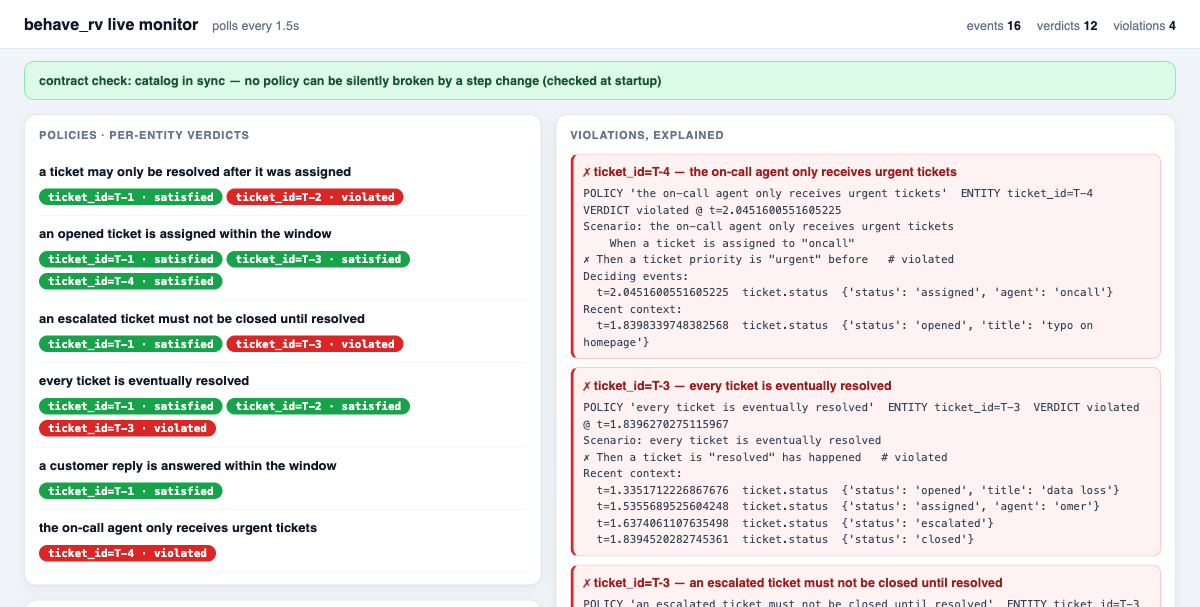
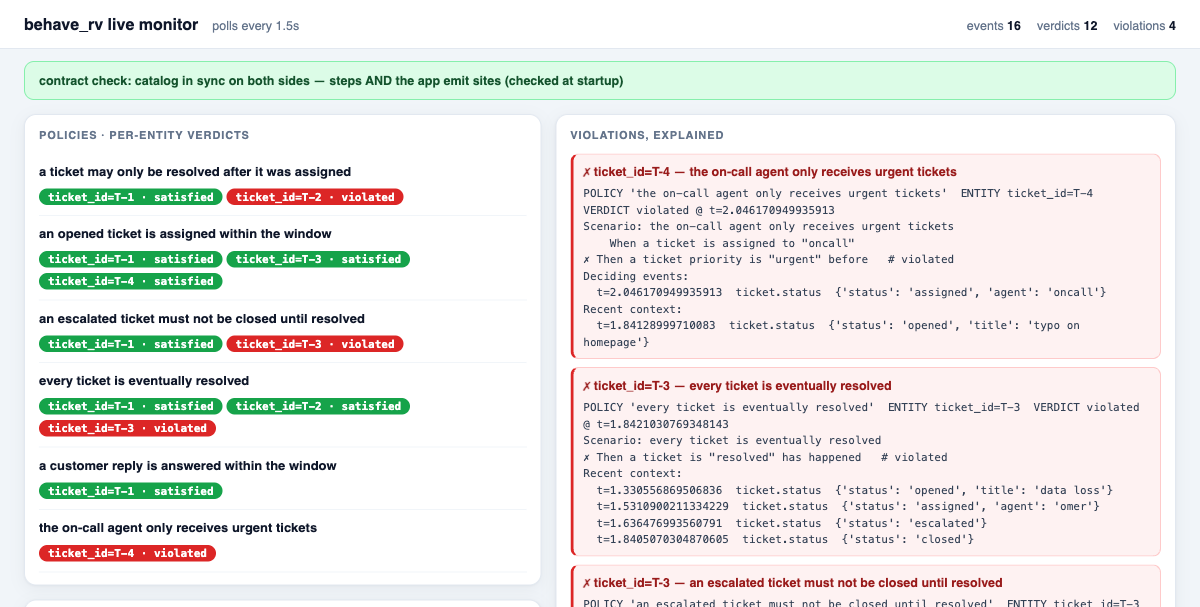
Evaluation doc: drop paper-directed framing; refresh main dashboard shot
The claims/non-claims guidance addressed to a paper author was internal
commentary, not product documentation -- removed (the honest claimed /
not-claimed content proper lives in section 3, where it belongs), along
with the "prepared for the paper" header framing. The guide's main
dashboard screenshot is re-captured so its green strip shows the current
two-sided message ("catalog in sync on both sides -- steps AND the app
emit sites") instead of the old step-only wording.

diff --git a/docs/APP_SURFACE_EVALUATION.md b/docs/APP_SURFACE_EVALUATION.md
@@ -1,8 +1,8 @@
 # Emit-Site Impact Analysis: Statically Scoping Application Changes to Runtime-Verification Policies
 
-*Capability description and experimental evaluation. Prepared for inclusion in
-the paper; every number below is produced by a committed, rerunnable script
-(section 8), measured 2026-07-13 on this repository.*
+*Capability description and experimental evaluation. Every number below is
+produced by a committed, rerunnable script (section 8), measured 2026-07-13
+on this repository.*
 
 ## 1. Summary
 
@@ -388,23 +388,3 @@ python -m pytest tests/ demo/ -q          # 383 tests; E-series + campaign pinne
 The E-series expectations, the zero-miss property, and the exact by-design
 false-alarm family are asserted in the permanent test suite, so any
 regression in the analyzer fails CI, not just a rerun of this document.
-
-## 9. What the paper may and may not claim
-
-May claim: a static, sound-up-to-declared-fragment change-impact analysis
-from application code to runtime-verification policies, anchored at
-syntactically identifiable emission sites; empirically zero misses on 83
-adversarial mutants and 17 curated cases with executed ground truth, zero
-false alarms outside a declared four-case conservatism family, sound
-scoping on all 43 verdict-affecting mutants including a non-obvious
-event-time coupling rule; linear cost (~0.2 ms/function); and a committed,
-reviewable contract artifact integrating with CI. May also claim the
-methodological point: the blind spots were found by the evaluation protocol
-itself (four defects from the first mutation run, one from the history
-replay), each converted into either a fix with a regression test or a
-declared, measured conservatism.
-
-Must not claim: semantic refactoring-equivalence, coverage of data-driven or
-environment-timing behavior, applicability beyond the in-process anchored
-convention, field-scale precision evidence, or independence of the
-evaluation from the implementers.